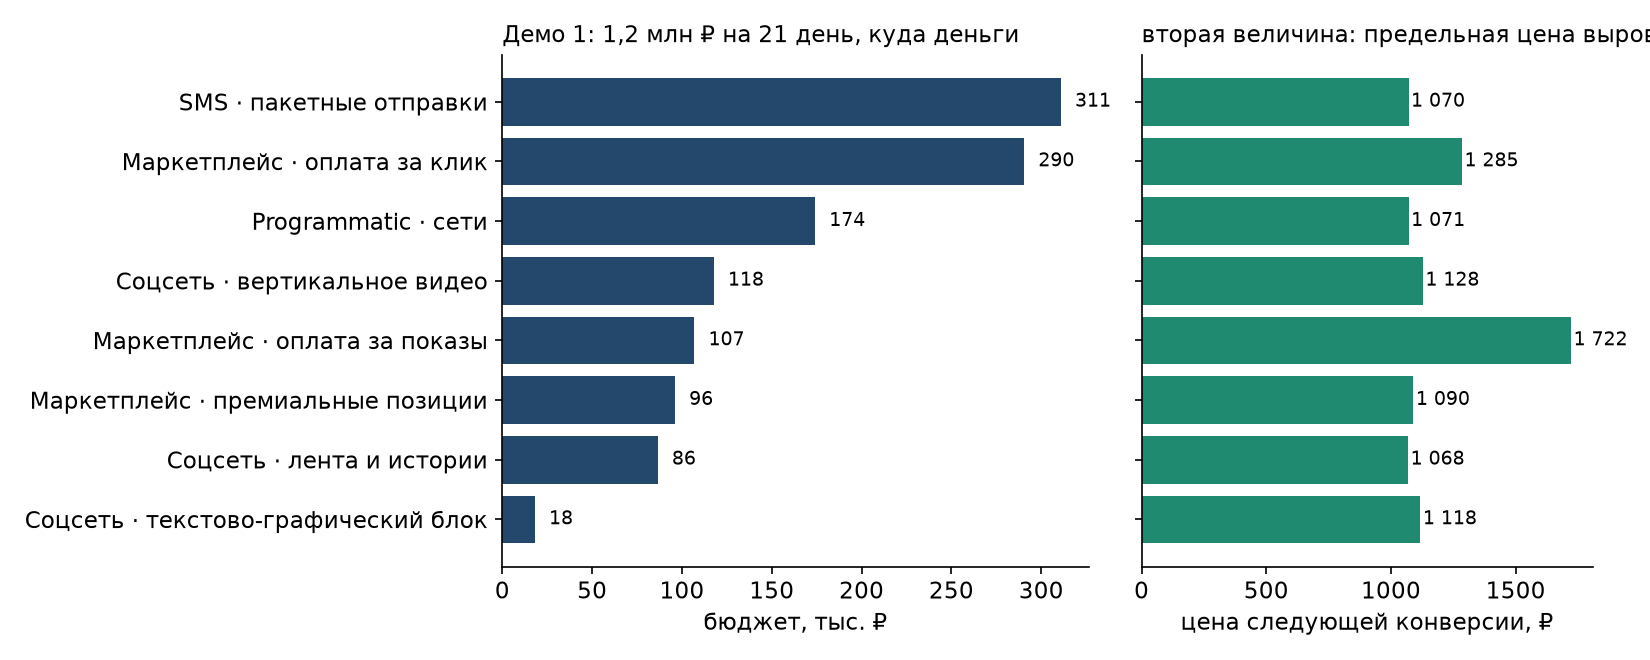
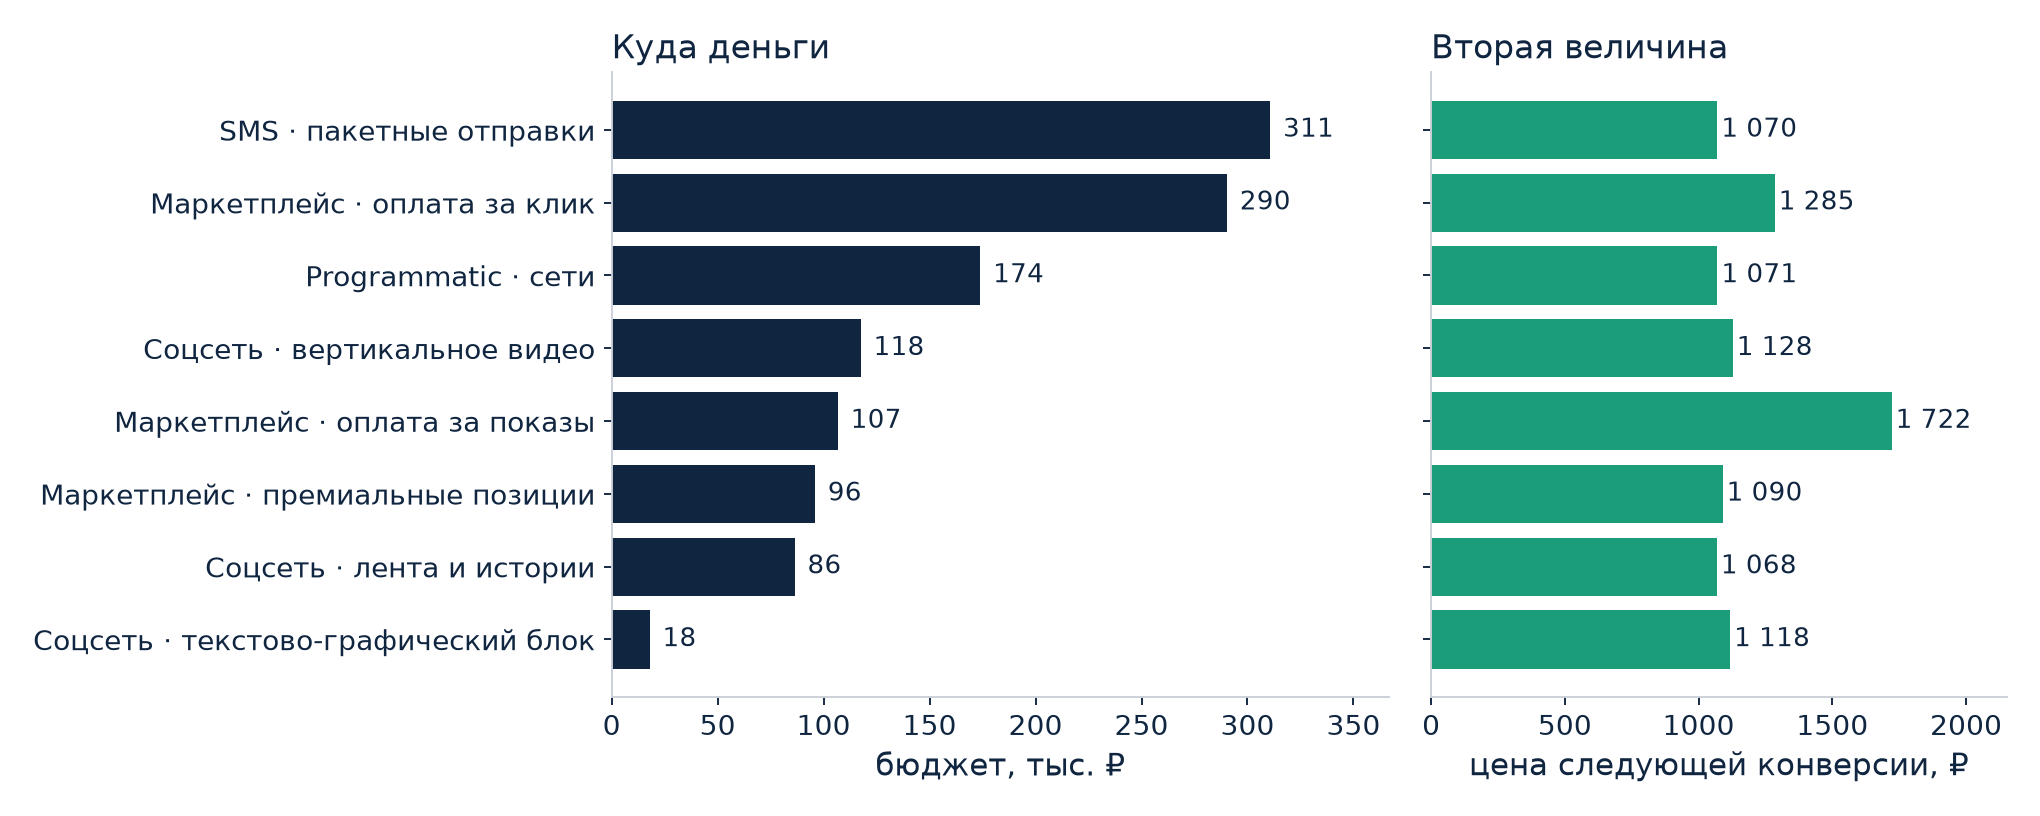
роли по деке: MLE #1 оптимайзер, MLE #2 мир; графики в палитре презентации, вырезы карточки и сводки, вопросы держателю кейса

Changed region(s): [[0.0, 0.0303, 1.0, 0.9697], [0.2782, 0.0303, 0.6182, 0.0909], [0.9273, 0.4545, 0.9891, 0.5758]]

diff --git a/docs/materials.md b/docs/materials.md
@@ -3,7 +3,7 @@
 | Пункт сдачи | Что берём | Файл |
 |---|---|---|
 | Описание проекта (markdown) | готовый черновик со всеми разделами и таблицей «Команда и распределение задач» | `docs/PROJECT.md` |
-| Продуктовые материалы | сценарии С1–С6 и их реализация; стыковка с PM | `docs/traceability.md`, `docs/mle2_onepager.md` (§5a) |
+| Продуктовые материалы | сценарии С1–С6 и их реализация; стыковка с PM | `docs/traceability.md`, `docs/optimizer_onepager.md` (§5a) |
 | Дополнительные материалы: отчёт стенда | таблица 20 парных миров, детектор, демо 1–3 | `results/report.md`, `results/*.json` |
 | Дополнительные материалы: правила | как план распределяет и как исполнение перераспределяет, формулы и источники | `docs/report.md`, `docs/research.md`, `docs/decisions.md` |
 | Дополнительные материалы: схема | архитектура (mermaid) и граница мир/мозг | `docs/PROJECT.md`, раздел «Выбранное техническое решение» |
@@ -39,6 +39,18 @@
 | `07_summary.png` | итог: строка для рекламодателя, обещали и получили по каналам | слайд «Первые результаты» |
 | `08_where_it_breaks.png` | стенд «где ломается решение» | слайд «Риски и границы» |
 | `09_compare_20_worlds.png` | таблица сравнения стратегий на 20 мирах с доверительными интервалами | слайд «Первые результаты» |
+| `10_pending_card_crop.png` | крупный вырез карточки «ждёт решения» с кнопками | слайд «Человек в контуре» |
+| `11_digest_crop.png` | крупный вырез сводки на час: что произошло и что делать | слайд «Человек в контуре» |
 | `00_cabinet_full.png` | весь кабинет одной страницей | приложение |
 
 Статус: скриншоты сняты с текущей версии кабинета на мире 1, графики построены из `results/` скриптом с matplotlib.
+
+## Вопросы держателю кейса (на слайд «Риски»)
+
+1. Перевыполнение KPI: режим «держать план» возвращает около 9 % бюджета ценой
+   недорасхода. Отклонение расхода штрафуется в любую сторону, или недорасход
+   при выполненном KPI это плюс?
+2. Лимит полномочий автоматики: какая сумма за ход реалистична в практике
+   МТС AdTech? 100 000 ₽ на 1,2 млн выставлены только для показа сценария.
+3. Пересечение аудиторий (5,3 % по GFD в презентации МТС): нужно ли оно в
+   модели мира к финалу, или независимые ёмкости каналов достаточны?

diff --git a/docs/PROJECT.md b/docs/PROJECT.md
@@ -139,7 +139,7 @@ flowchart LR
   визуально пугает; обсуждаем, показывать ±1σ или P25–P75.
 - Резерв бюджета: держать план или выжимать максимум это продуктовый выбор;
   в кабинете есть переключатель, решение по умолчанию за продуктом.
-- Интеграция мира MLE #1: наш симулятор написан по его контракту, замена
+- Интеграция мира MLE #2: наш симулятор написан по его контракту, замена
   пакета `world` не требует правок мозга.
 
 ## План работ до финала
@@ -153,6 +153,6 @@ flowchart LR
 
 | Роль | Зона ответственности | Сделано к промежуточной версии | Участие |
 |---|---|---|---|
-| AI Engineer, модель мира (MLE #1) | контракт симулятора, три профиля каналов, сценарии шоков, воспроизводимость | контракт `reset/step`, документ модели мира, требования к инвариантам и общим случайным числам | активное |
-| AI Engineer, мозг (MLE #2) | планировщик, исполнитель, стенд, интеграция кабинета | реализация `brain`, `harness`, `contracts`, симулятор по контракту MLE #1, кабинет, тесты, Docker, реестры констант | активное |
-| AI Product | исследование пользователей, сценарии С1–С6, критерии готовности, продуктовые материалы и презентация | кабинетное исследование по шести аудиториям, шесть сценариев, правило «вторая величина», карточка с двумя ценами, лимит полномочий, стресс-тест до запуска | активное |
+| Тимофей Лисоченко, AI Engineer, модель мира (MLE #2) | контракт симулятора, три профиля каналов, сценарии шоков, воспроизводимость | контракт `reset/step`, документ модели мира, требования к инвариантам и общим случайным числам | активное |
+| Родион Оркин, AI Engineer, оптимайзер (MLE #1) | планировщик, исполнитель, стенд, интеграция кабинета | реализация `brain`, `harness`, `contracts`, симулятор по контракту MLE #2, кабинет, тесты, Docker, реестры констант | активное |
+| Георгий Мамарин, AI Product | исследование пользователей, сценарии С1–С6, критерии готовности, продуктовые материалы и презентация | кабинетное исследование по шести аудиториям, шесть сценариев, правило «вторая величина», карточка с двумя ценами, лимит полномочий, стресс-тест до запуска | активное |

diff --git a/CLAUDE.md b/CLAUDE.md
@@ -36,8 +36,8 @@
 
 ## Где что лежит
 - `contracts/` — схемы границ (каталог, наблюдение, действие, бриф, план, решение). Ни от кого не зависят.
-- `world/` — модель мира и симулятор (MLE #1): `reset / step / inject_shock`, три профиля каналов, сценарии шоков.
-- `brain/` — планировщик и исполнитель (MLE #2). Никогда не импортирует `world` (import-linter + тест).
+- `world/` — модель мира и симулятор (MLE #2): `reset / step / inject_shock`, три профиля каналов, сценарии шоков.
+- `brain/` — планировщик и исполнитель (MLE #1). Никогда не импортирует `world` (import-linter + тест).
 - `harness/` — стенд: ретро-пробы, цикл прогона, метрики, парное сравнение стратегий.
 - `app/` — FastAPI и веб-кабинет (`app/static/index.html`).
 - `config/benchmarks.yaml` — числа с источниками; `config/assumptions.yaml` — допущения мира;
@@ -54,5 +54,5 @@
 ## Что уже сделано
 - Ресёрч-карта решений и источников: https://claude.ai/code/artifact/3d480d3e-aefb-4414-a1ca-4b5a62fe2dda
 - План работы команды (срезы, роли, стоп-сигналы): https://claude.ai/code/artifact/b1366e9a-0e19-4394-a5be-93eecea8acf9
-- План MLE #2 и контракт с командой: `docs/mle2_plan.md`, артефакт https://claude.ai/code/artifact/23ae9516-81a3-4602-8646-3f4c8508ee84
-- Одностраничник к встрече 03.09: `docs/mle2_onepager.md`, артефакт https://claude.ai/code/artifact/35ff1126-2328-4bff-8827-baf5ea62ce4e
+- План MLE #1 и контракт с командой: `docs/optimizer_plan.md`, артефакт https://claude.ai/code/artifact/23ae9516-81a3-4602-8646-3f4c8508ee84
+- Одностраничник к встрече 03.09: `docs/optimizer_onepager.md`, артефакт https://claude.ai/code/artifact/35ff1126-2328-4bff-8827-baf5ea62ce4e

diff --git a/docs/research.md b/docs/research.md
@@ -126,7 +126,7 @@ RL и генеративные автобиддеры (AIGB, USCB, AuctionNet-а
 предсказуемой структуре отдачи. Документация МТС DSP (Медиапланировщик,
 Оптимизация VTR, Типы биллинга, Статистика) даёт словарь интерфейса и два
 подтверждения наших допущений: ёмкость планируется с SOV 15–30 %, оптимизация
-KPI подчинена удержанию темпа. Полный список ссылок: `docs/mle2_plan.md`, приложение В.
+KPI подчинена удержанию темпа. Полный список ссылок: `docs/optimizer_plan.md`, приложение В.
 
 ## Дополнение 03.09: что взято в код прототипа
 
@@ -144,5 +144,5 @@ KPI подчинена удержанию темпа. Полный список 
 - Кривые из ретро-кампаний по публичному интерфейсу: подход Google Reach Planner
   («прогноз по истории похожих кампаний»); разрешено презентацией кейса.
 - Устройство стенда сравнения (общие случайные числа по ключу, парные прогоны,
-  baseline «без управления»): контракт мира MLE #1 (`docs/world/WORLD_MODEL.md`),
+  baseline «без управления»): контракт мира MLE #2 (`docs/world/WORLD_MODEL.md`),
   стенд eBay (AdKDD'23), AuctionGym.

diff --git a/docs/decisions.md b/docs/decisions.md
@@ -131,7 +131,7 @@ import-linter в `pyproject.toml`.
 
 ## 15. Ретро-история вместо смещённого каталога (критическое, 03.09)
 
-Контракт мира (MLE #1) отдаёт каталог диапазонами, а не кривыми, и запрещает
+Контракт мира (MLE #2) отдаёт каталог диапазонами, а не кривыми, и запрещает
 планировщику истинные параметры. Кривые «бюджет → отклик» мозг строит сам:
 harness прогоняет пробные кампании через публичный `reset/step` на отдельных
 `world_seed` (1001–1003), мозг видит только действия и наблюдения. Так
@@ -150,7 +150,7 @@ harness прогоняет пробные кампании через публи
 
 ## 17. Действие мира это лимит расхода на час, ставок нет
 
-По контракту MLE #1 `action = {channel_id: hourly_spend_cap}`. Ставки и
+По контракту MLE #2 `action = {channel_id: hourly_spend_cap}`. Ставки и
 множители из первоначального контракта мозга убраны: исполнитель управляет
 только лимитами, а темп внутри канала выражается лимитом, а не ставкой.
 Ставки, если понадобятся, добавляются версионированным расширением схемы.

diff --git a/README.md b/README.md
@@ -70,9 +70,9 @@ uv venv .venv && uv pip install --python .venv/bin/python -e ".[dev]"
 | Пакет | Роль | Владелец |
 |---|---|---|
 | `contracts/` | схемы границ: каталог, наблюдение, действие, бриф, план, решение | общий |
-| `world/` | модель мира и симулятор: `reset / step / inject_shock`, три профиля каналов, сценарии шоков | MLE #1 |
-| `brain/` | планировщик (типы A и B, диагностика) и исполнитель (два контура, детектор, baseline'ы) | MLE #2 |
-| `harness/` | стенд: ретро-пробы, цикл прогона, метрики, парное сравнение | MLE #2 |
+| `world/` | модель мира и симулятор: `reset / step / inject_shock`, три профиля каналов, сценарии шоков | MLE #2 |
+| `brain/` | планировщик (типы A и B, диагностика) и исполнитель (два контура, детектор, baseline'ы) | MLE #1 |
+| `harness/` | стенд: ретро-пробы, цикл прогона, метрики, парное сравнение | MLE #1 |
 | `app/` | FastAPI и веб-кабинет | PM |
 
 **Информационная граница.** `brain` не импортирует `world` (import-linter и

diff --git a/docs/optimizer_onepager.md b/docs/optimizer_onepager.md
@@ -21,7 +21,7 @@
 
 ## 2. Три куска и кто за что
 
-- **Мир (MLE #1)**: искусственный рынок. Восемь каналов, цена растёт по мере
+- **Мир (MLE #2)**: искусственный рынок. Восемь каналов, цена растёт по мере
   выкупа, аудитория кончается, показатели шумят. Наружу отдаёт только
   «прайс-лист» и почасовую статистику. Настоящие параметры рынка скрыты.
 - **Мозг (мы)**: планировщик и исполнитель. Считает план, потом каждый час
@@ -58,7 +58,7 @@
 аллокаторам Google и Meta, исполнитель по опубликованным схемам Yahoo,
 LinkedIn, Google, Pinterest.
 
-## 4. Что нам нужно от мира (контракт с MLE #1)
+## 4. Что нам нужно от мира (контракт с MLE #2)
 
 **1. Прайс-лист `catalog.json`.** По каждому каналу:
 
